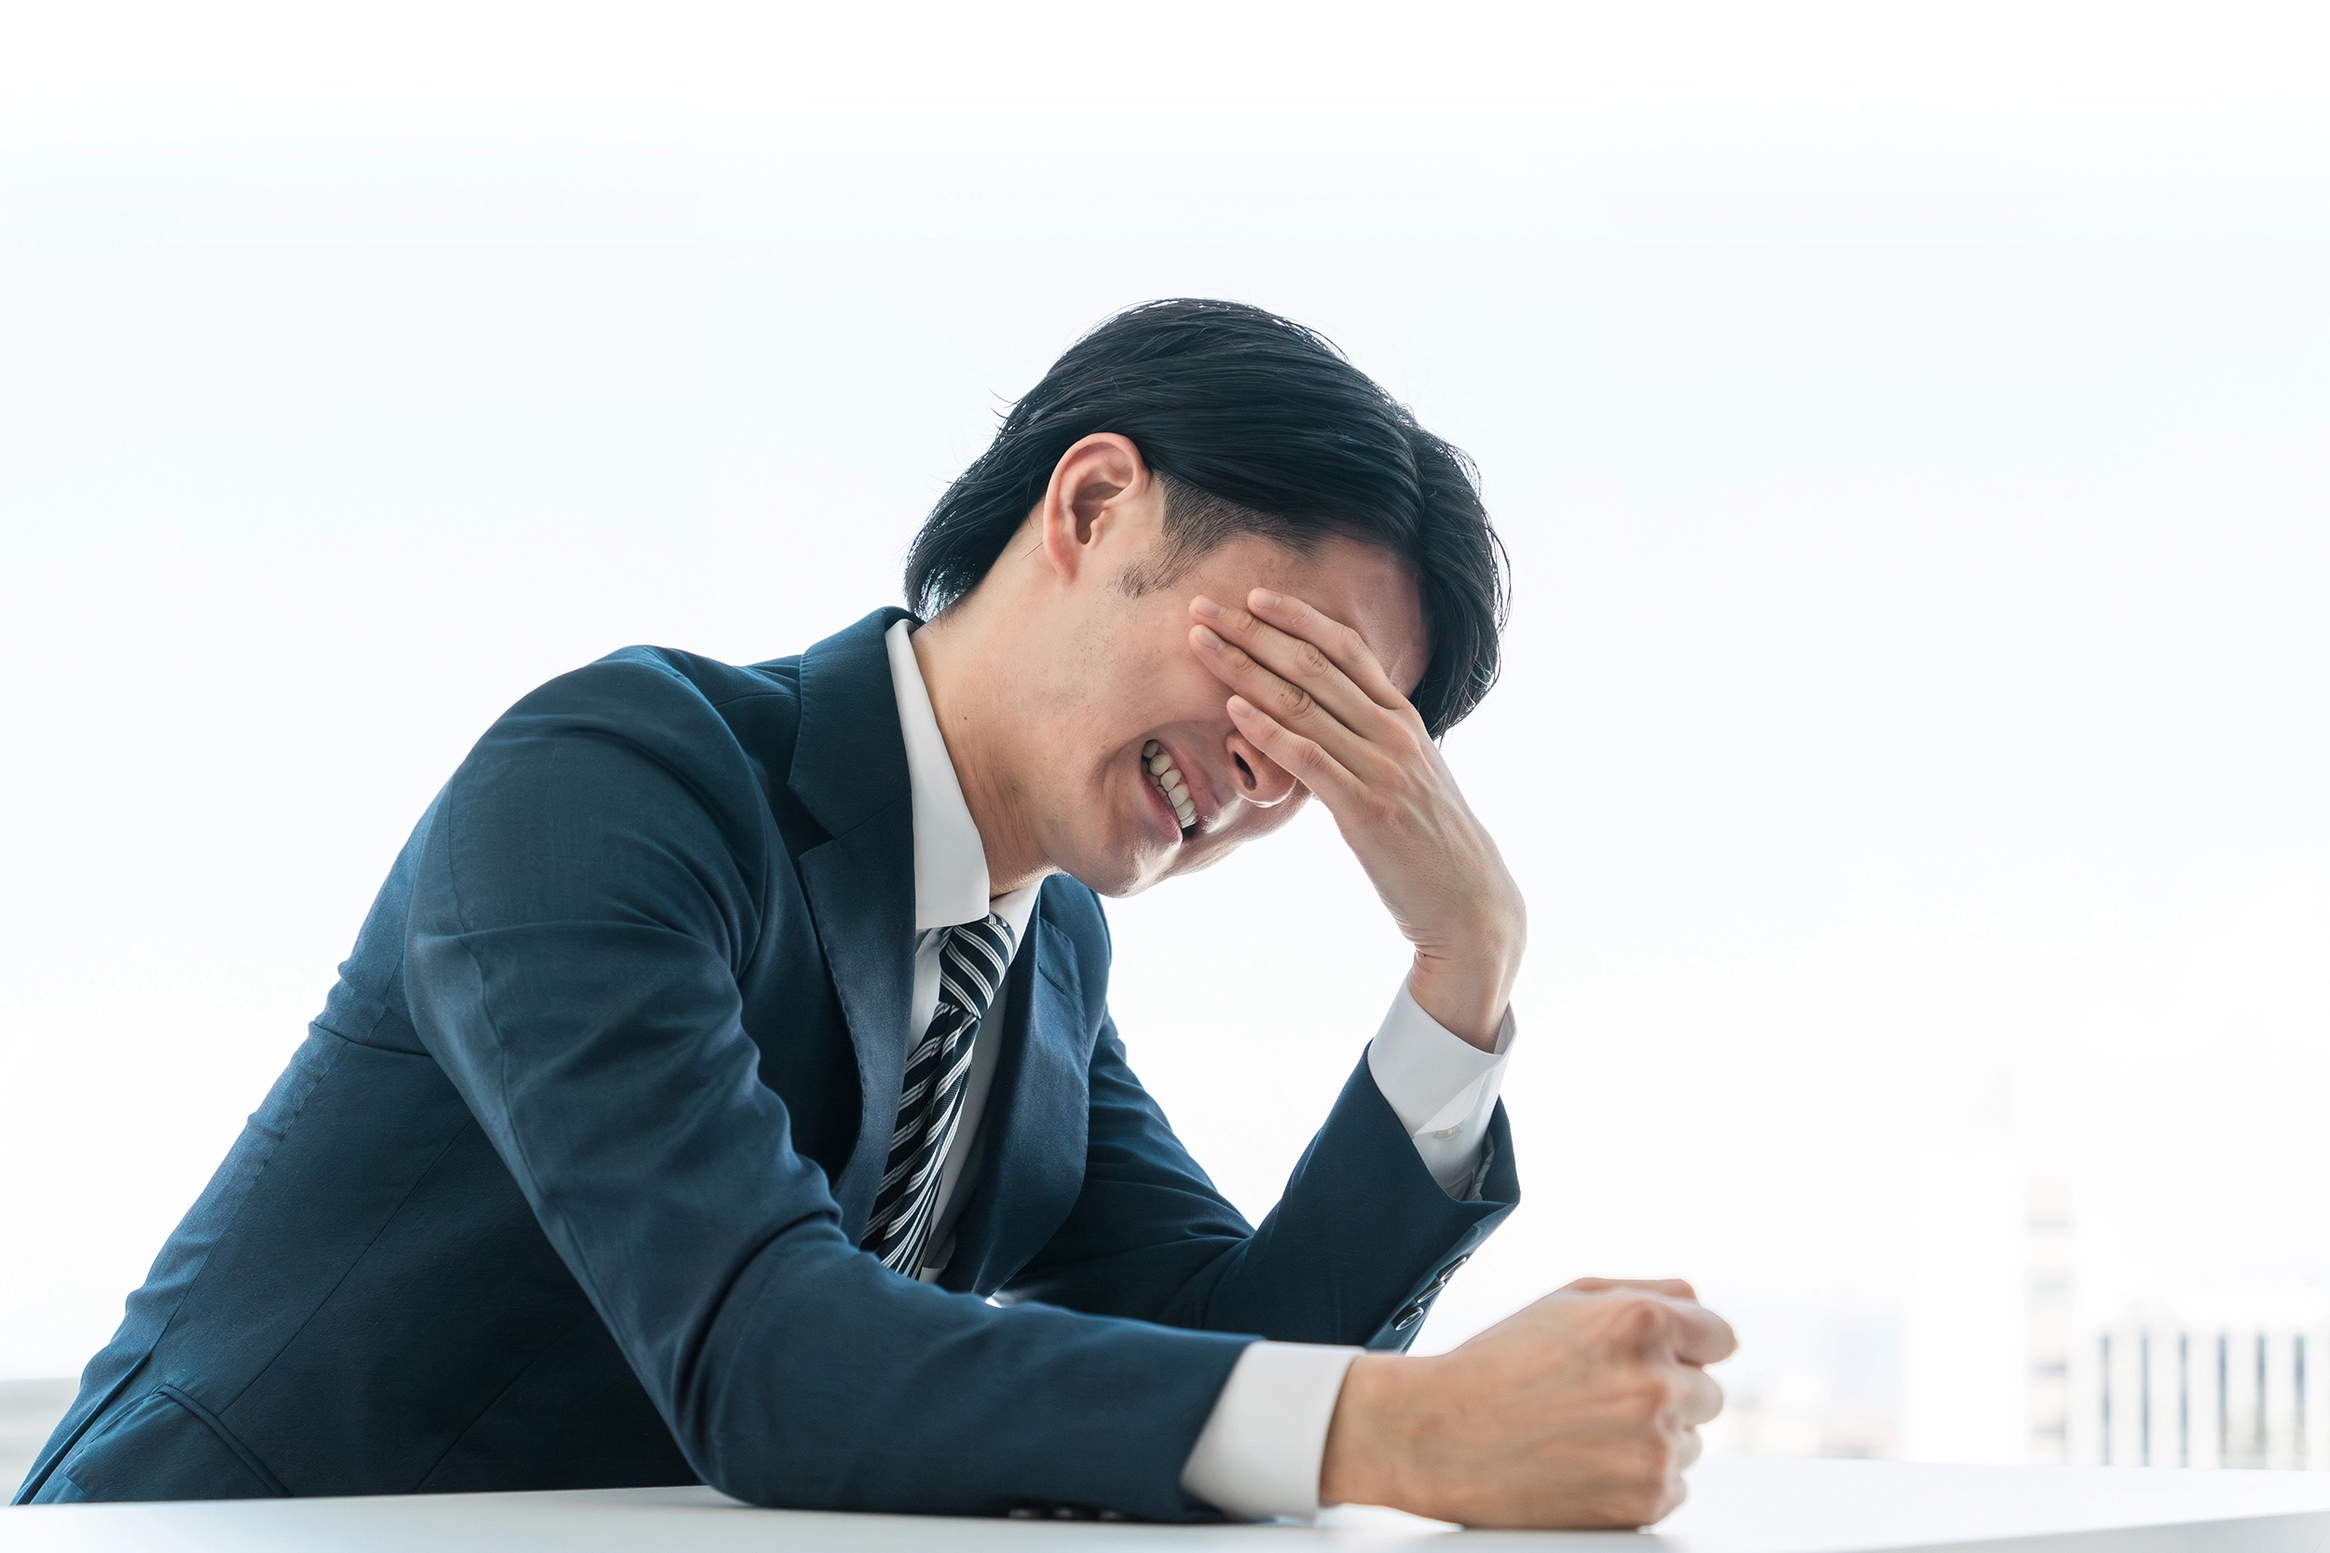
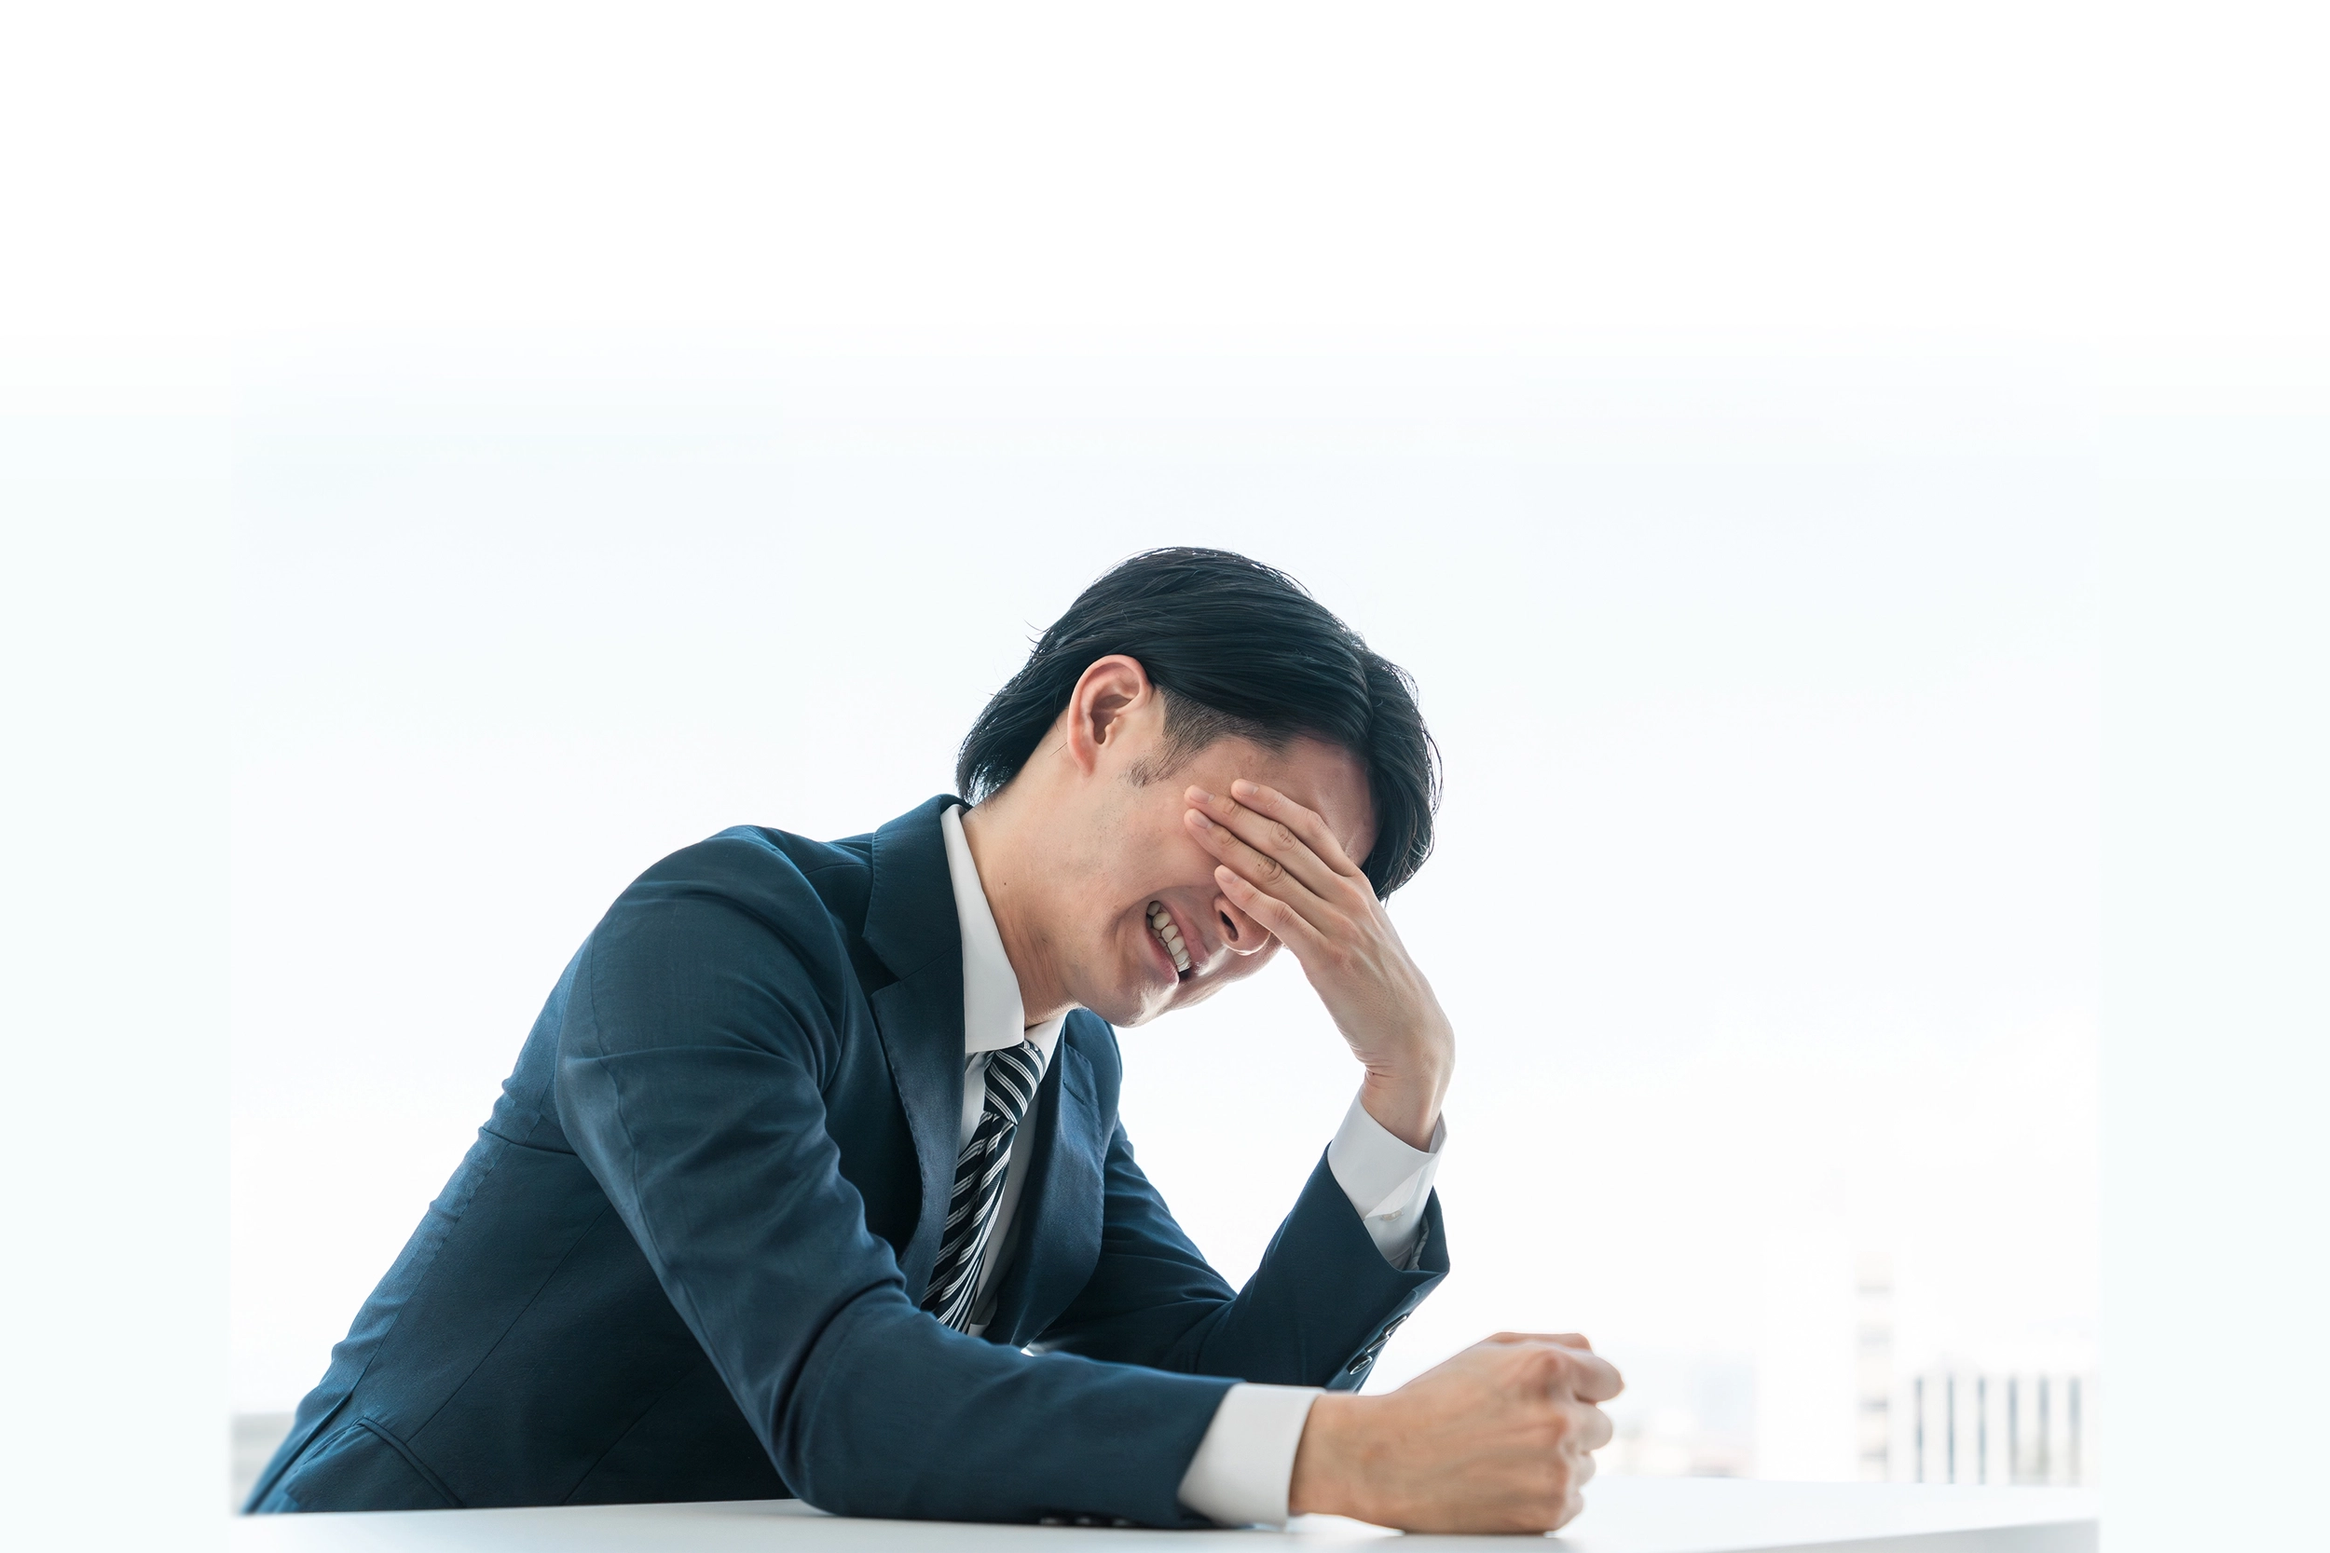
軽微な修正、ユーザビリティの向上

Changed region(s): [[0.0, 0.1872, 1.0, 1.0]]

diff --git a/assets/stylesheet/style.css b/assets/stylesheet/style.css
@@ -41,10 +41,14 @@ header {
 
 main {
   .page-link {
+    display: block;
     margin: 50px 0;
+    text-align: center;
   }
 
   .page-link-button {
+    display: inline-block;
+    margin: 20px;
     text-align: center;
   }
 
@@ -66,12 +70,17 @@ main {
     object-fit: cover;
   }
 
+  .main-visual {
+    height: calc(100vh);
+    background: url(../images/main-visual.webp) bottom / cover no-repeat;
+  }
+
   .main-visual-image {
     width: 100%;
   }
 
   .main-visual-text {
-    margin: 50px 0;
+    padding: 50px 0;
   }
 
   .main-visual-heading,
@@ -101,15 +110,32 @@ main {
     text-align: center;
   }
 
+  .btn-visual {
+    display: inline-block;
+    background: rgba(255, 255, 255, .5);
+  }
+
   .main-visual-image img {
     max-height: 100%;
     width: auto;
     object-fit: cover;
   }
 
+  .hand-write-heading {
+    margin-top: 35px;
+    text-align: center;
+  }
+
+  .hand-write-heading img {
+    display: inline-block;
+    width: 40%;
+    max-width: 250px;
+  }
+
   /* sections */
   .mission {
     color: #6699ff;
+    margin: 100px 0;
     padding: 0 20px;
   }
 
@@ -125,8 +151,8 @@ main {
     gap: 25px;
   }
 
-  .mission-step dd {
-    width: 50%;
+  .mission-step img {
+    max-width: 100px;
     margin: 0 auto;
   }
 
@@ -154,6 +180,10 @@ main {
 
   & figure {
     margin: 25px 0;
+  }
+
+  & iframe {
+    width: 100%;
   }
 
   .wp-block-heading {
@@ -184,7 +214,7 @@ main {
     & td,
     & th {
       border: none;
-      padding: 12px 8px;
+      padding: 12px;
     }
     
     & tr:nth-child(even) {
@@ -558,6 +588,10 @@ print {
       flex-direction: row;
       gap: 50px;
       padding: 50px 100px;
+    }
+
+    .sitemap a:hover {
+      opacity: .7;
     }
   }
 }

diff --git a/home.php b/home.php
@@ -4,11 +4,8 @@
     <section class="main-visual">
       <div class="main-visual-text">
         <p class="main-visual-paragraph">悩める新聞販売店・小売業界のオーナー様</p>
+        <p class="hand-write-heading"><img src="<?php echo esc_url(get_template_directory_uri()); ?>/assets/images/svg/hand_write_heading.svg" alt="今こそ"></p>
         <h1 class="main-visual-heading"><small>令和の</small>経営改革</h1>
-        <p class="main-visual-button"><a href="/" class="btn btn-visual">相談する</a></p>
-      </div>
-      <div class="main-visual-image">
-        <img src="<?php echo esc_url(get_template_directory_uri()); ?>/assets/images/main-visual.webp" alt="メインビジュアルのイメージ">
       </div>
     </section>
     <section class="mission">
@@ -40,6 +37,7 @@
       </div>
       <div class="page-link">
         <p class="page-link-button"><a href="" class="btn btn-link">記事を読む</a></p>
+        <p class="page-link-button"><a href="" class="btn btn-link">相談する</a></p>
       </div>
     </section>
   </article>
